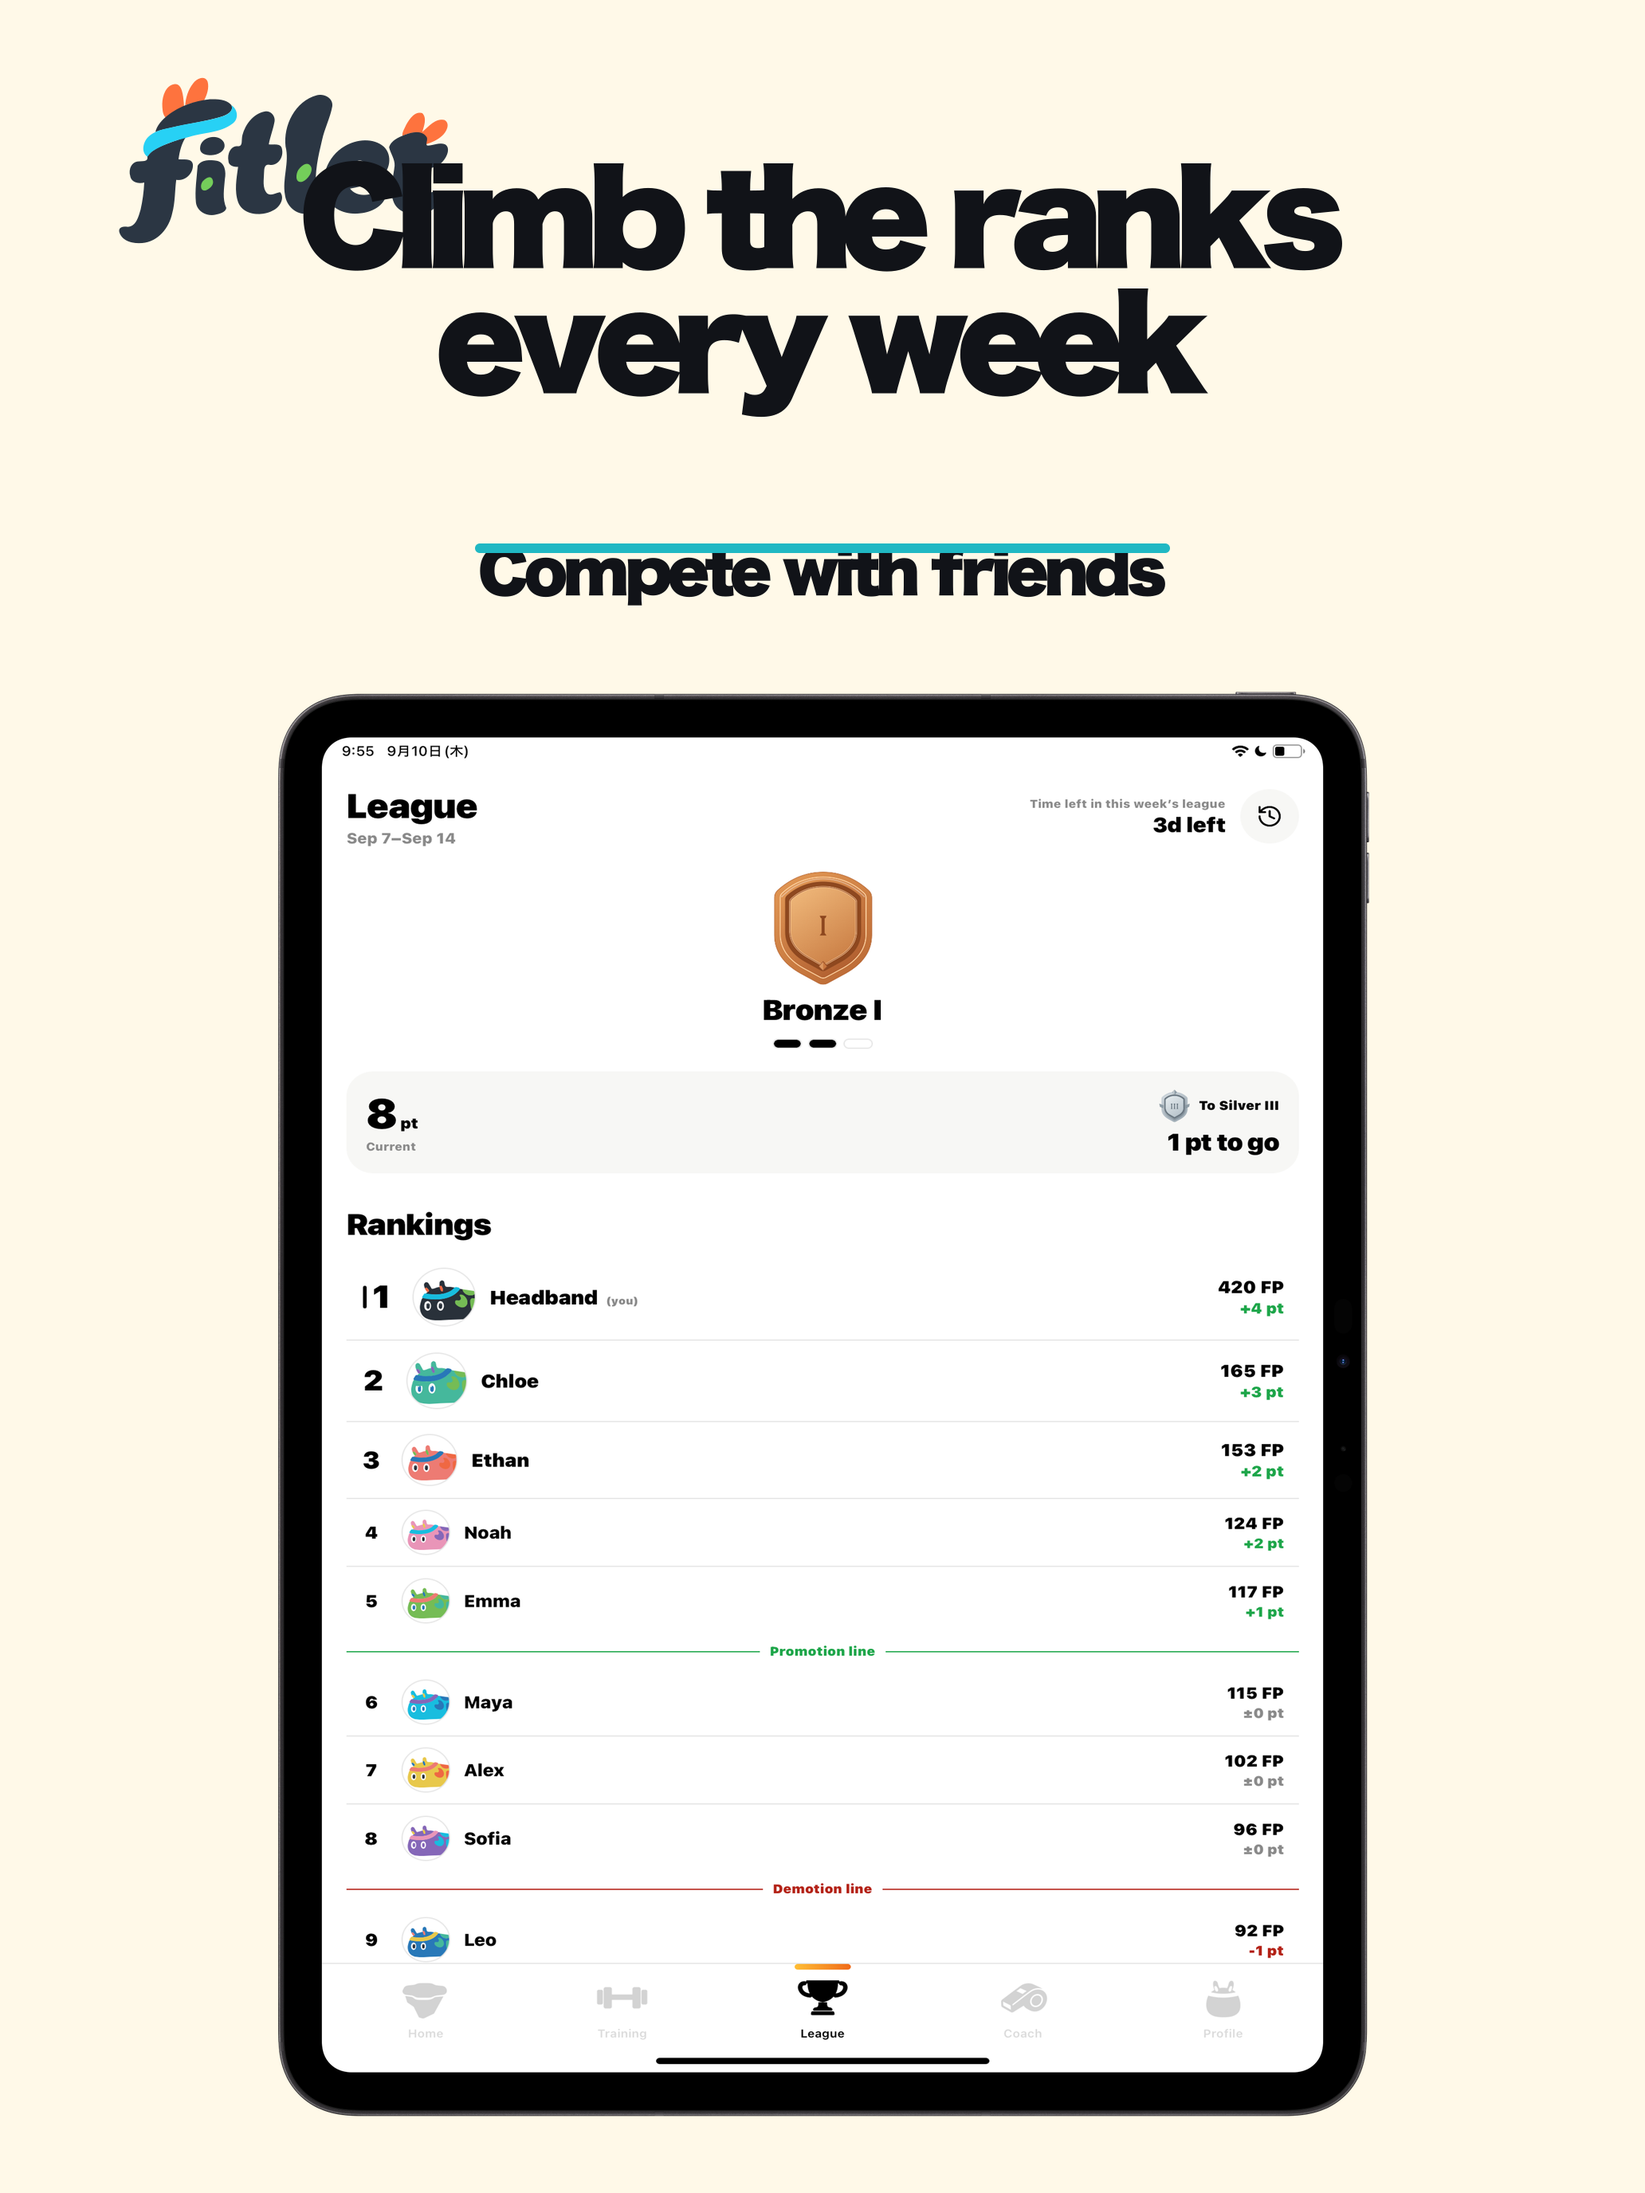
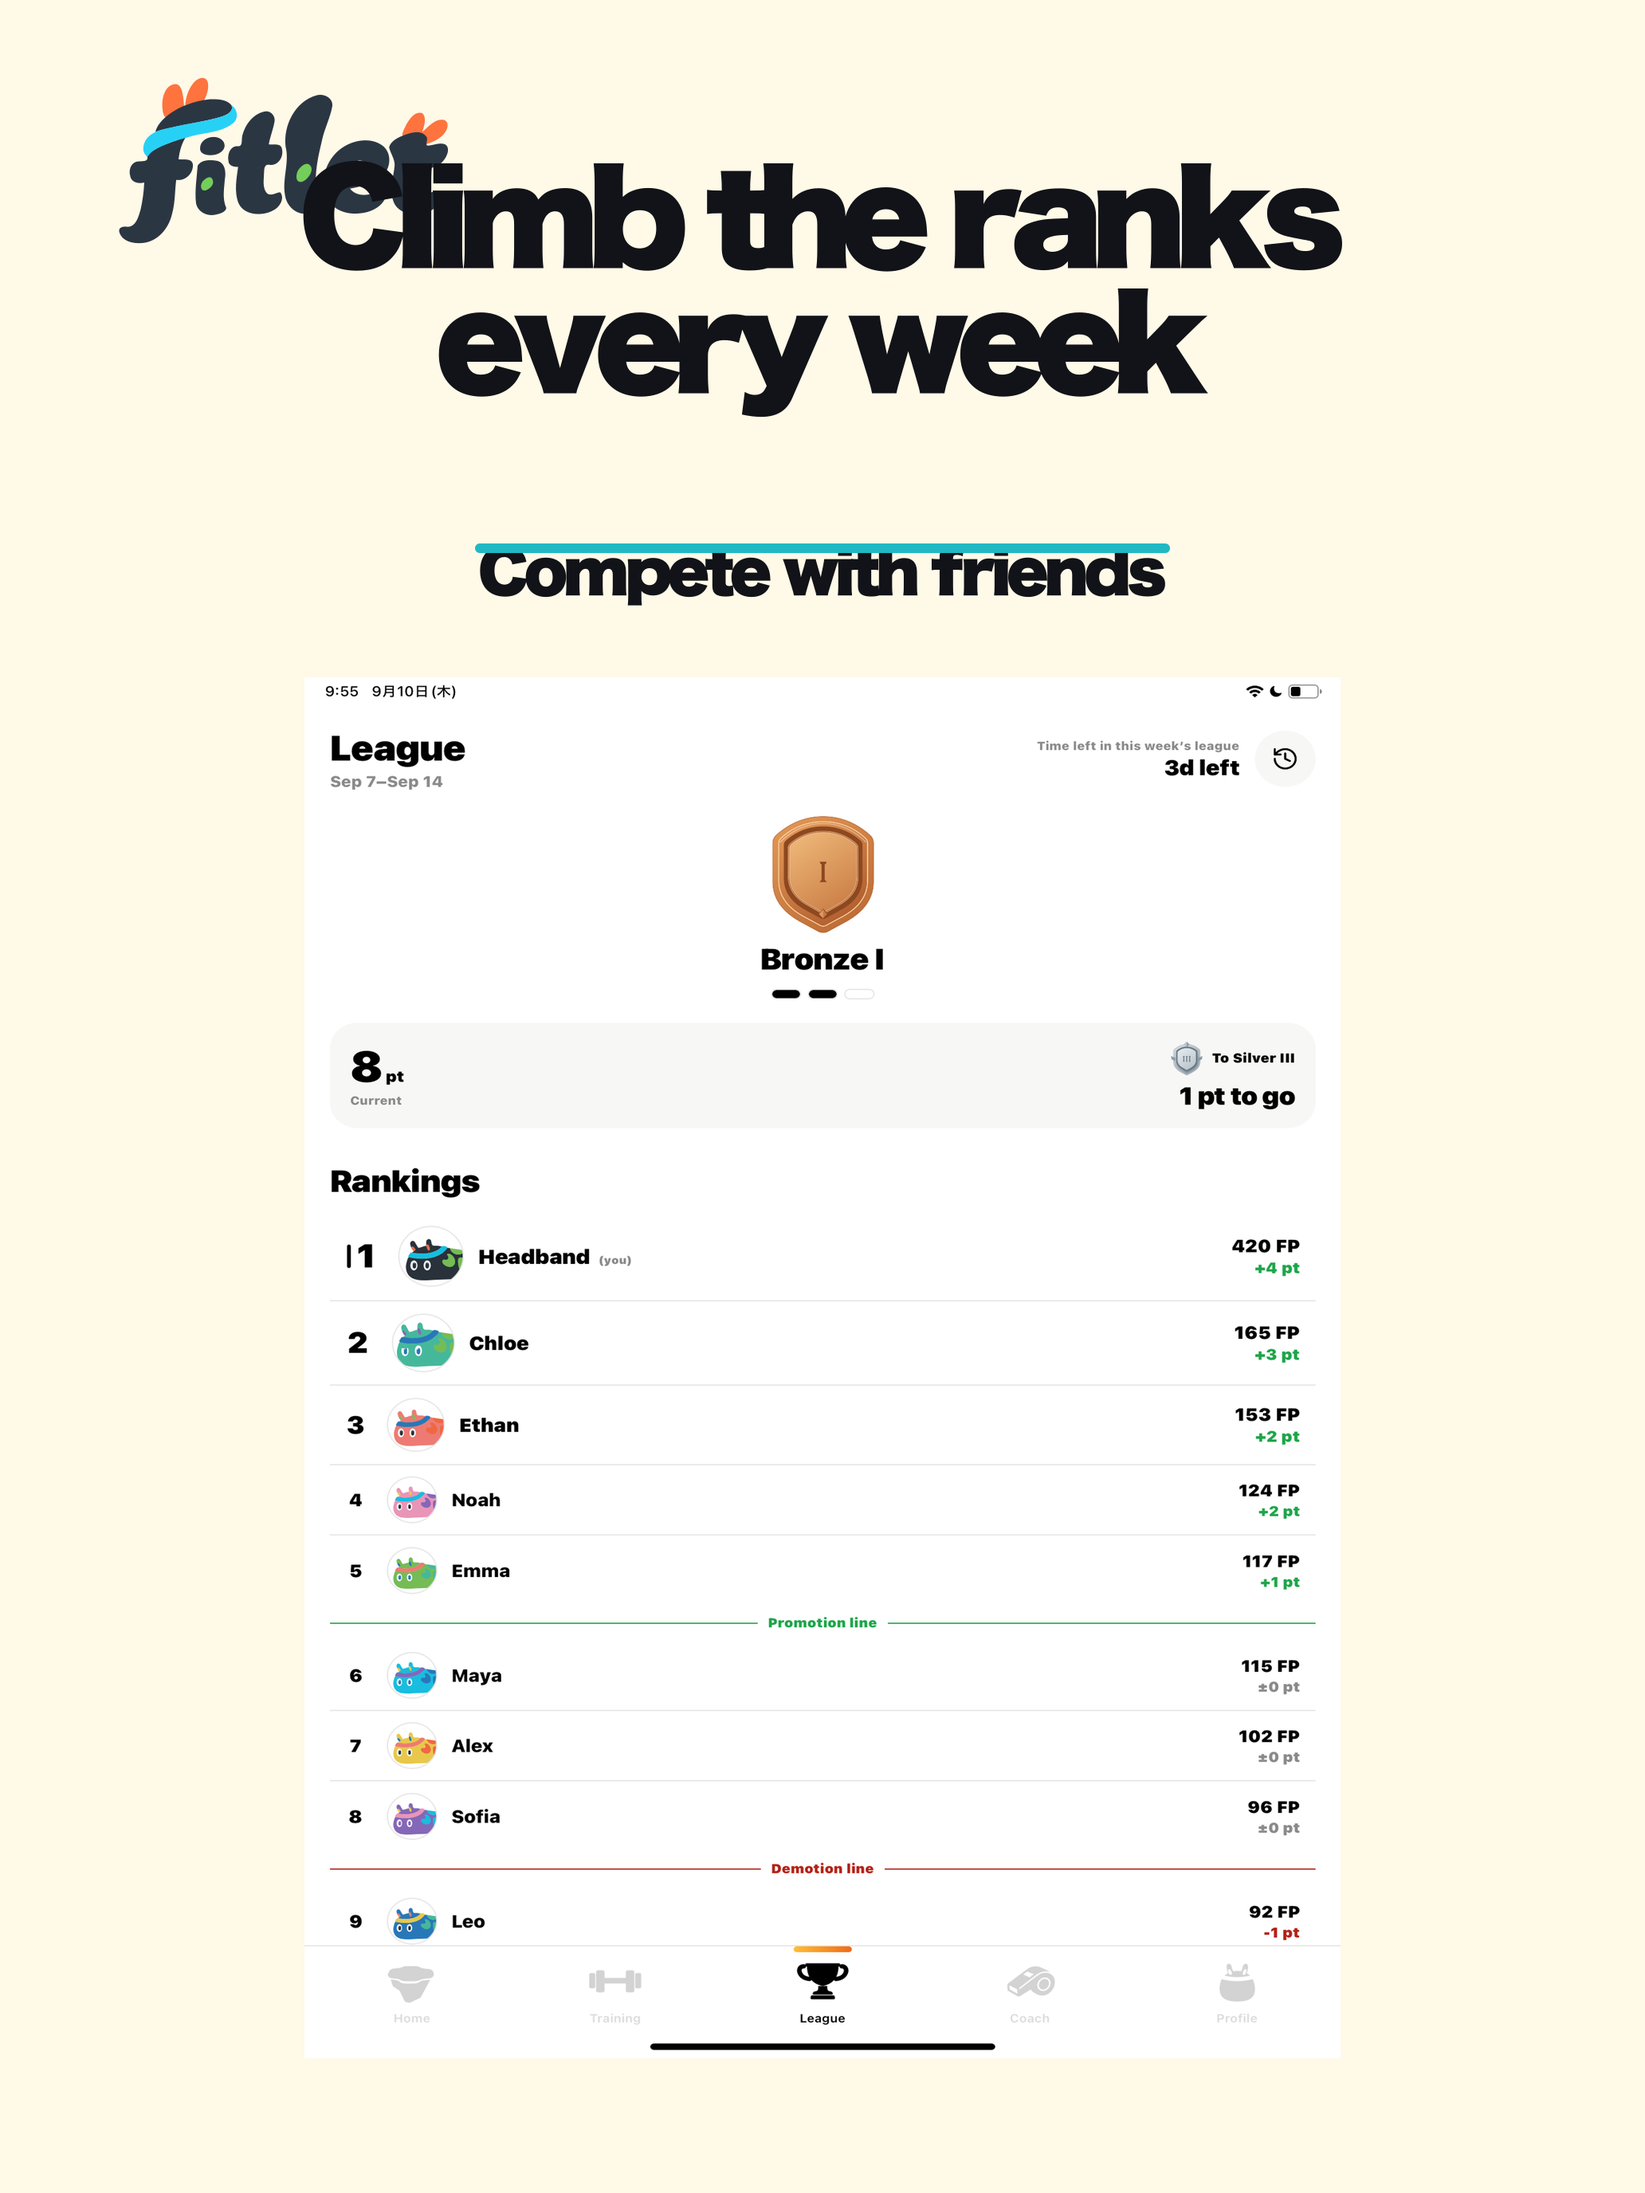
Remove iPad screenshot bezels

Changed region(s): [[0.155, 0.3125, 0.8372, 0.9688], [0.4651, 0.375, 0.5581, 0.4688]]

diff --git a/public/store-assets/README.md b/public/store-assets/README.md
@@ -1,6 +1,6 @@
 # Fitlet ストア素材
 
-既存の Fitlet 素材だけを使い、明るい配色・太い輪郭・フラットな面でまとめた日本語・英語のストア素材です。フィーチャーグラフィックはロゴと既存キャラクターだけでシンプルに、最初の2枚は1枚のホームマップ画面を大きく斜めに横たわせて左右2枚にまたがせています。iPad用の端末フレームにはApple公式のiPad Pro (M5) 13インチベゼルを使用しています。編集元は `source/` にあります。iPhone用PNGは `node scripts/export-store-assets.mjs`、iPad用PNGはApple公式ベゼルPNGを指定して `node scripts/export-ipad-store-assets.mjs` で再出力できます。
+既存の Fitlet 素材だけを使い、明るい配色・太い輪郭・フラットな面でまとめた日本語・英語のストア素材です。フィーチャーグラフィックはロゴと既存キャラクターだけでシンプルに、最初の2枚は1枚のホームマップ画面を大きく斜めに横たわせて左右2枚にまたがせています。iPad用画像はベゼルを使わず、アプリ画面そのものを大きく配置しています。編集元は `source/` にあります。iPhone用PNGは `node scripts/export-store-assets.mjs`、iPad用PNGは `node scripts/export-ipad-store-assets.mjs` で再出力できます。
 
 Appleの提出用スクリーンショットは、iPhone用を `1284 × 2778 px`、iPad 13インチ用を `2064 × 2752 px` に統一しています。`apple/screenshots/` 内には入稿用画像だけを置き、2枚連結の確認用画像は `previews/apple/` に分けています。
 
@@ -26,7 +26,7 @@ Appleの提出用スクリーンショットは、iPhone用を `1284 × 2778 px`
 - `apple/screenshots/ipad/ja/` — 日本語のiPad用提出画像。マップを跨ぐ1・2枚目と、Session / Training / League / Profile / Coach を含む7枚。全て `2064 × 2752 px`。
 - `apple/screenshots/ipad/en/` — 英語のiPad用提出画像。全て `2064 × 2752 px`。
 - `previews/apple/ipad/fitlet-map-spread-ja.png` / `fitlet-map-spread-en.png` — 1・2枚目の連結確認用プレビュー。入稿には使いません。
-- 元画像は `source/screens/ipad/ja/` / `source/screens/ipad/en/` です。iPad用の合成処理は `scripts/export-ipad-store-assets.mjs` にあり、Apple公式ベゼルの元ファイルはAppleのライセンス条件に従ってリポジトリへ同梱していません。
+- 元画像は `source/screens/ipad/ja/` / `source/screens/ipad/en/` です。iPad用の合成処理は `scripts/export-ipad-store-assets.mjs` にあります。
 
 ### Google Play
 
@@ -49,8 +49,6 @@ Appleの提出用スクリーンショットは、iPhone用を `1284 × 2778 px`
   <https://developer.apple.com/design/human-interface-guidelines/app-icons>
 - Apple の iPad 13インチ用スクリーンショットは、縦向き `2064 × 2752 px` または `2048 × 2732 px`（横向きも受付）です。
   <https://developer.apple.com/help/app-store-connect/reference/app-information/screenshot-specifications>
-- Apple公式の製品ベゼル素材（iPad Pro (M5)）
-  <https://developer.apple.com/design/resources/>
 - Apple の iPhone 6.9 インチ縦スクリーンショットは端末によって 1260 × 2736 / 1290 × 2796 / 1320 × 2868 px が受け付けられます。スクリーンショットは透過不可です。
   <https://developer.apple.com/help/app-store-connect/reference/app-information/screenshot-specifications/>
 - Google Play の掲載アイコンは 512 × 512、32-bit PNG、sRGB、1 MB 以下。完全な正方形で、角丸と外側の影は Play 側が処理します。
